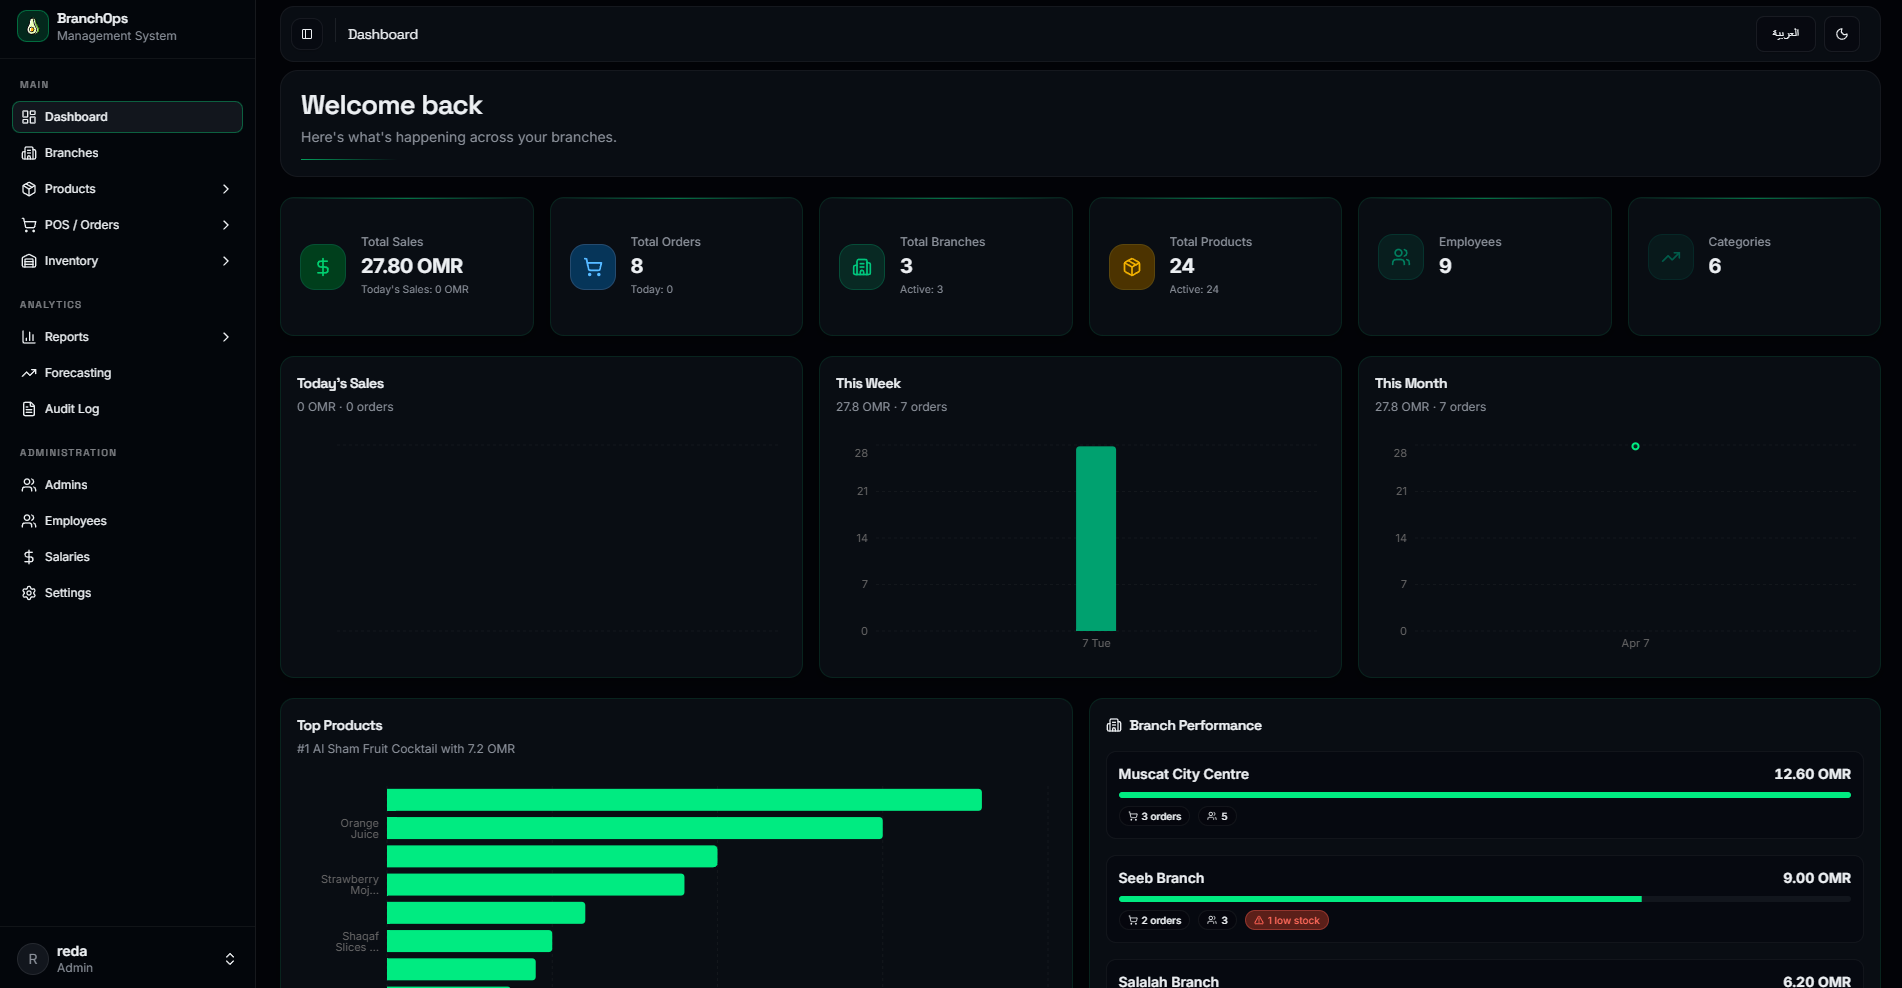
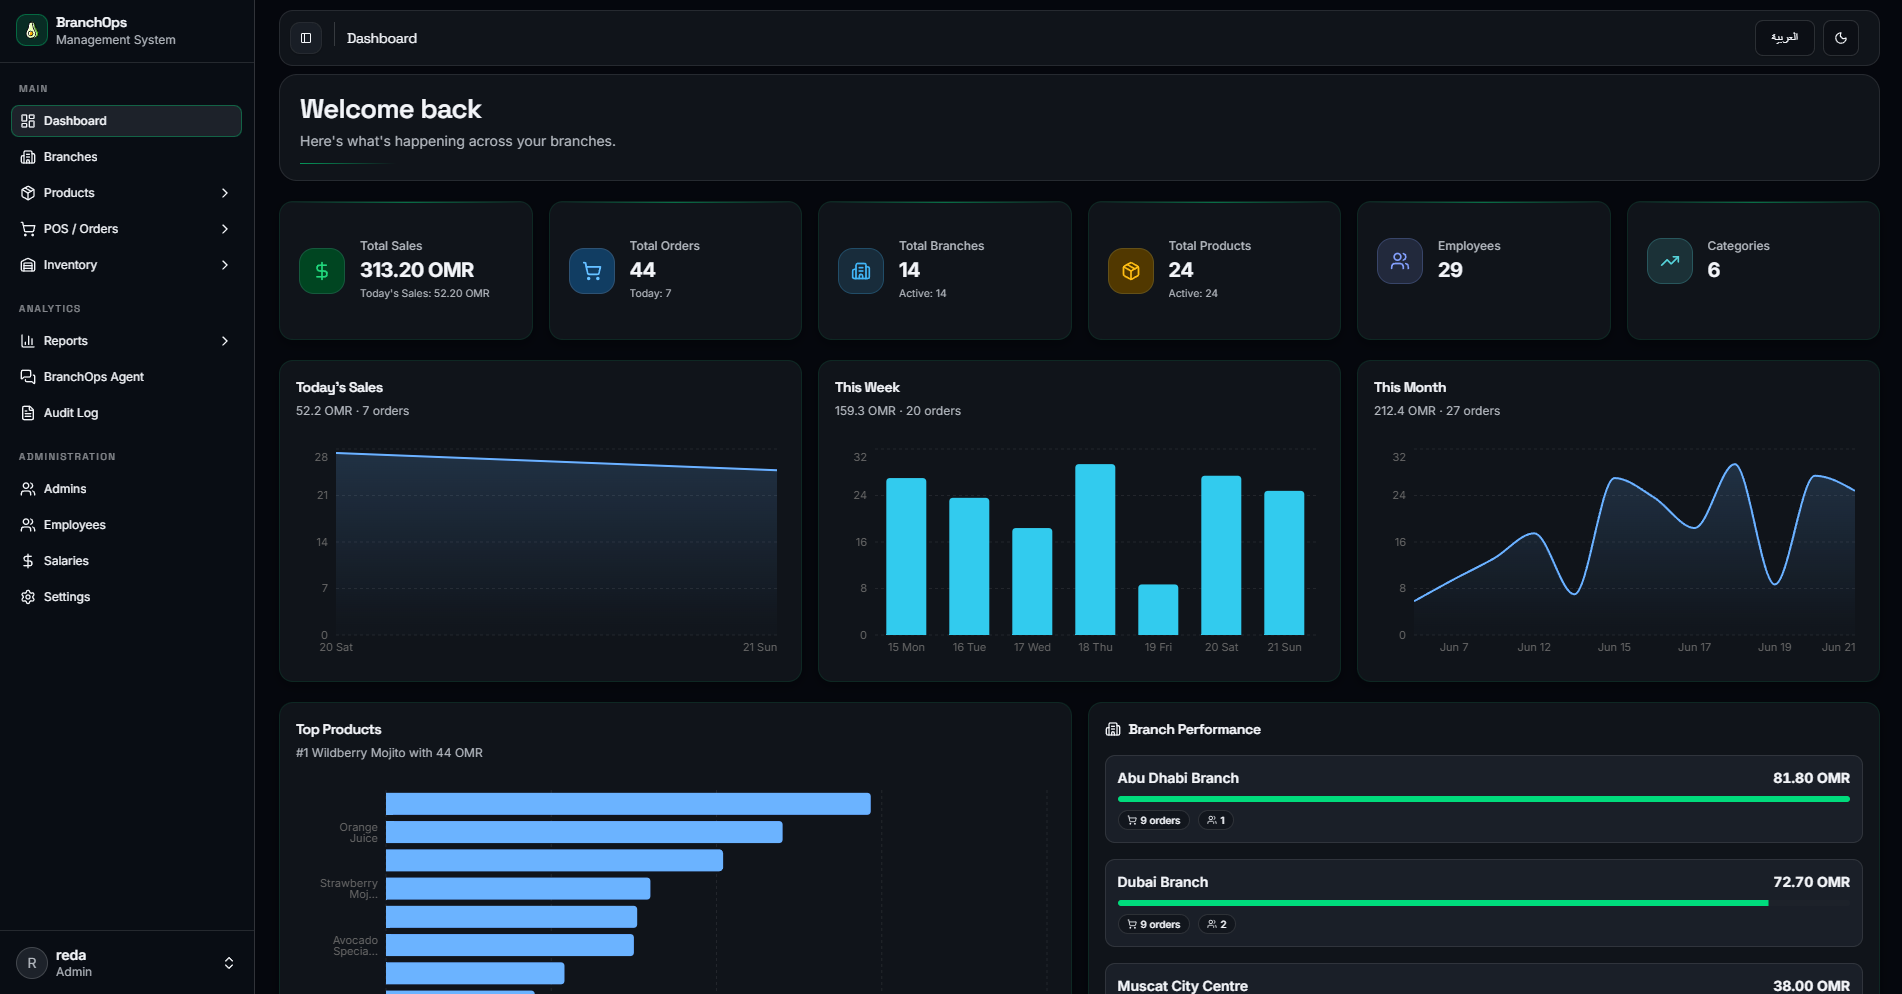
update readme and add imgs

diff --git a/README.md b/README.md
@@ -4,6 +4,8 @@ BranchOps is a full-stack multi-branch operations system for businesses and rest
 
 The application is split into a React + TypeScript frontend and an ASP.NET Core backend backed by PostgreSQL. AI features live in a separate .NET project and stream results to the browser with Server-Sent Events.
 
+![BranchOps dashboard](docs/imgs/dashboard-page.png)
+
 ## Tech Stack
 
 | Area | Stack |
@@ -54,6 +56,105 @@ BranchOps/
   plan/                           Planning artifacts
   BranchOps.slnx                  .NET solution file
 ```
+
+## Authentication and Roles
+
+Backend roles are defined by `BranchOps.Domain/Auth/UserRole.cs`:
+
+```text
+Admin, StockManager, BranchManager, Cashier, Guest
+```
+
+The frontend mirrors these numeric roles in `client/src/features/auth/types.ts` and centralizes route permissions in `client/src/lib/route-permissions.ts`.
+
+![Security architecture diagram](diagrams/imgs/Security-Architecture-Diagram.png)
+
+High-level route access:
+
+| Area | Roles |
+| --- | --- |
+| Dashboard, settings | Any authenticated user |
+| Admin users, audit log | Admin |
+| Branches, employees, salaries, reports | Admin, BranchManager |
+| POS and order history | Admin, BranchManager, Cashier |
+| Products and inventory views | Admin, StockManager, BranchManager, Cashier |
+| Replenishment Advisor | Admin, StockManager, BranchManager |
+| BranchOps Agent | Admin, StockManager, BranchManager |
+
+For non-admin users, the JWT includes a `BranchId` claim when an employee record exists. The frontend appends that branch id to branch-scoped GET requests, and backend services/controllers enforce role and branch rules for sensitive workflows.
+
+## AI Workflows
+
+![BranchOps AI agent interface](docs/imgs/ai-agent.png)
+
+### Replenishment Advisor
+
+The Replenishment Advisor is available at:
+
+```text
+/inventory/replenishment-agent
+```
+
+It reviews one branch at a time, streams tool activity and narrative output, drafts reorder recommendations, and persists accepted draft recommendations as pending records. Human approval or rejection records decision metadata, but it does not update stock, create purchase orders, or create stock adjustments.
+
+Primary backend flow:
+
+1. `POST /api/Replenishment/runs?branchId=<branch-id>` starts an SSE stream.
+2. The API creates a `ReplenishmentRun`.
+3. The AI agent reads stock, product, and sales data through branch-scoped tools.
+4. Draft recommendations are validated by the orchestrator.
+5. Valid recommendations are persisted up to `Ai:Replenishment:MaxProductsPerRun`.
+6. Run history and details are available from `GET /api/Replenishment/runs` and `GET /api/Replenishment/runs/{id}`.
+7. Users approve or reject recommendations through run recommendation endpoints.
+
+More detail is in `docs/replenishment-advisor-feat-doc.md`.
+
+### BranchOps Agent
+
+The BranchOps Agent is available at:
+
+```text
+/reports/branchops-agent
+```
+
+It is an ephemeral, read-only operational analyst. Conversations are not persisted, tools do not mutate data, and tool calls are audited with entity type `BranchOpsAgent`.
+
+Primary backend flow:
+
+1. `POST /api/BranchOpsAgent/stream` sends a message, optional branch id, and recent in-memory history.
+2. The API sets a transient run context.
+3. The agent streams text and tool activity over SSE.
+4. Admin users can query all branches or one selected branch.
+5. Non-admin users are forced to the branch from their JWT claim.
+
+More detail is in `docs/branchops-agent.md`.
+
+## Database and Migrations
+
+![BranchOps ERD](diagrams/imgs/ERD-dbeaver.png)
+
+EF Core configuration lives under:
+
+```text
+server/BranchOps.Api/Data/
+```
+
+Migrations live under:
+
+```text
+server/BranchOps.Api/Migrations/
+```
+
+The migration sequence includes:
+
+- Initial users
+- Branches, employees, and salaries
+- Products and orders
+- Stock management
+- Audit log
+- Replenishment agent tables
+
+The domain model lives in `server/BranchOps.Domain`, while API-specific EF configuration is kept in `server/BranchOps.Api/Data/Configuration`.
 
 ## Prerequisites
 
@@ -326,30 +427,6 @@ Run backend commands from `server/BranchOps.Api/` unless noted:
 
 VS Code tasks are also configured for `Run Backend`, `Run Frontend`, and `Run All`.
 
-## Authentication and Roles
-
-Backend roles are defined by `BranchOps.Domain/Auth/UserRole.cs`:
-
-```text
-Admin, StockManager, BranchManager, Cashier, Guest
-```
-
-The frontend mirrors these numeric roles in `client/src/features/auth/types.ts` and centralizes route permissions in `client/src/lib/route-permissions.ts`.
-
-High-level route access:
-
-| Area | Roles |
-| --- | --- |
-| Dashboard, settings | Any authenticated user |
-| Admin users, audit log | Admin |
-| Branches, employees, salaries, reports | Admin, BranchManager |
-| POS and order history | Admin, BranchManager, Cashier |
-| Products and inventory views | Admin, StockManager, BranchManager, Cashier |
-| Replenishment Advisor | Admin, StockManager, BranchManager |
-| BranchOps Agent | Admin, StockManager, BranchManager |
-
-For non-admin users, the JWT includes a `BranchId` claim when an employee record exists. The frontend appends that branch id to branch-scoped GET requests, and backend services/controllers enforce role and branch rules for sensitive workflows.
-
 ## Backend API
 
 Most controllers use the route convention:
@@ -374,75 +451,6 @@ Important API areas:
 | `ReplenishmentController` | AI replenishment runs, history, details, approvals, rejections. |
 | `BranchOpsAgentController` | Read-only operational AI analyst streaming endpoint. |
 | `AccountSettingsController` | Profile and password updates for the authenticated user. |
-
-## AI Workflows
-
-### Replenishment Advisor
-
-The Replenishment Advisor is available at:
-
-```text
-/inventory/replenishment-agent
-```
-
-It reviews one branch at a time, streams tool activity and narrative output, drafts reorder recommendations, and persists accepted draft recommendations as pending records. Human approval or rejection records decision metadata, but it does not update stock, create purchase orders, or create stock adjustments.
-
-Primary backend flow:
-
-1. `POST /api/Replenishment/runs?branchId=<branch-id>` starts an SSE stream.
-2. The API creates a `ReplenishmentRun`.
-3. The AI agent reads stock, product, and sales data through branch-scoped tools.
-4. Draft recommendations are validated by the orchestrator.
-5. Valid recommendations are persisted up to `Ai:Replenishment:MaxProductsPerRun`.
-6. Run history and details are available from `GET /api/Replenishment/runs` and `GET /api/Replenishment/runs/{id}`.
-7. Users approve or reject recommendations through run recommendation endpoints.
-
-More detail is in `docs/replenishment-advisor-feat-doc.md`.
-
-### BranchOps Agent
-
-The BranchOps Agent is available at:
-
-```text
-/reports/branchops-agent
-```
-
-It is an ephemeral, read-only operational analyst. Conversations are not persisted, tools do not mutate data, and tool calls are audited with entity type `BranchOpsAgent`.
-
-Primary backend flow:
-
-1. `POST /api/BranchOpsAgent/stream` sends a message, optional branch id, and recent in-memory history.
-2. The API sets a transient run context.
-3. The agent streams text and tool activity over SSE.
-4. Admin users can query all branches or one selected branch.
-5. Non-admin users are forced to the branch from their JWT claim.
-
-More detail is in `docs/branchops-agent.md`.
-
-## Database and Migrations
-
-EF Core configuration lives under:
-
-```text
-server/BranchOps.Api/Data/
-```
-
-Migrations live under:
-
-```text
-server/BranchOps.Api/Migrations/
-```
-
-The migration sequence includes:
-
-- Initial users
-- Branches, employees, and salaries
-- Products and orders
-- Stock management
-- Audit log
-- Replenishment agent tables
-
-The domain model lives in `server/BranchOps.Domain`, while API-specific EF configuration is kept in `server/BranchOps.Api/Data/Configuration`.
 
 ## Development Guidelines
 